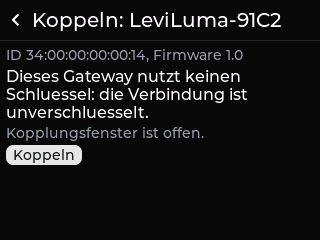
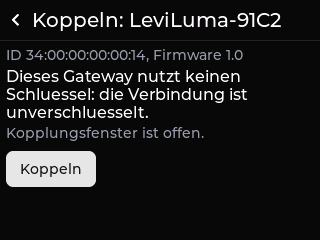
Buttons mit mehr Innenabstand und Abstand zum Text
- RockBase (uiButton) und Round (button): Innenabstand oben/unten 10 px,
  seitlich 14/16 px, Abstand nach oben 6 px (RockBase zusaetzlich 4 px unten).
- Kalibrierseite: Button-Zeile bricht um, statt "Zuruecksetzen" abzuschneiden.
- Screenshots neu erzeugt.

Claude-Session: https://claude.ai/code/session_01XRbTNR4FRdpa3sNittWBxo

Changed region(s): [[0.0, 0.5833, 0.3125, 0.7875]]

diff --git a/next/controller/main/ui_common.cpp b/next/controller/main/ui_common.cpp
@@ -149,6 +149,12 @@ lv_obj_t *uiButton(lv_obj_t *parent, const char *text, lv_event_cb_t cb, void *u
   lv_obj_t *b = lv_button_create(parent);
   lv_theme_shadcn_set_variant(b, primary ? LV_THEME_SHADCN_VARIANT_DEFAULT : LV_THEME_SHADCN_VARIANT_OUTLINE);
   lv_theme_shadcn_set_size(b, LV_THEME_SHADCN_SIZE_SM);
+  // Mehr Luft: Innenabstand oben/unten und Abstand zu Texten darueber/darunter (Flex-Layout)
+  lv_obj_set_height(b, LV_SIZE_CONTENT);
+  lv_obj_set_style_pad_ver(b, 10, 0);
+  lv_obj_set_style_pad_hor(b, 14, 0);
+  lv_obj_set_style_margin_top(b, 6, 0);
+  lv_obj_set_style_margin_bottom(b, 4, 0);
   lv_obj_t *l = lv_label_create(b);
   lv_label_set_text(l, text);
   lv_obj_center(l);

diff --git a/next/controller-round/main/ui.cpp b/next/controller-round/main/ui.cpp
@@ -98,6 +98,11 @@ static lv_obj_t *label(lv_obj_t *parent, const char *t, bool muted = false) {
 static lv_obj_t *button(lv_obj_t *parent, const char *t, lv_event_cb_t cb, bool primary = true) {
   lv_obj_t *b = lv_button_create(parent);
   lv_theme_shadcn_set_variant(b, primary ? LV_THEME_SHADCN_VARIANT_DEFAULT : LV_THEME_SHADCN_VARIANT_OUTLINE);
+  // Mehr Luft wie beim RockBase-Controller (uiButton): Innenabstand und Abstand zum Text
+  lv_obj_set_height(b, LV_SIZE_CONTENT);
+  lv_obj_set_style_pad_ver(b, 10, 0);
+  lv_obj_set_style_pad_hor(b, 16, 0);
+  lv_obj_set_style_margin_top(b, 6, 0);
   lv_obj_t *l = lv_label_create(b);
   lv_label_set_text(l, t);
   lv_obj_center(l);

diff --git a/next/controller/main/ui_calib.cpp b/next/controller/main/ui_calib.cpp
@@ -173,6 +173,8 @@ static void showOverview() {
   lv_label_set_long_mode(pointsLbl, LV_LABEL_LONG_MODE_WRAP);
   lv_obj_set_width(pointsLbl, LV_PCT(100));
   lv_obj_t *r = uiRow(c);
+  lv_obj_set_flex_flow(r, LV_FLEX_FLOW_ROW_WRAP); // Buttons umbrechen statt abschneiden
+  lv_obj_set_style_pad_row(r, 4, 0);
   uiButton(r, "Kalibrierung starten", startClicked);
   uiButton(r, "Zuruecksetzen", resetClicked, nullptr, false);
   uiLabel(c, "Gespeichert wird auf dem Gateway (NVS).", true);
